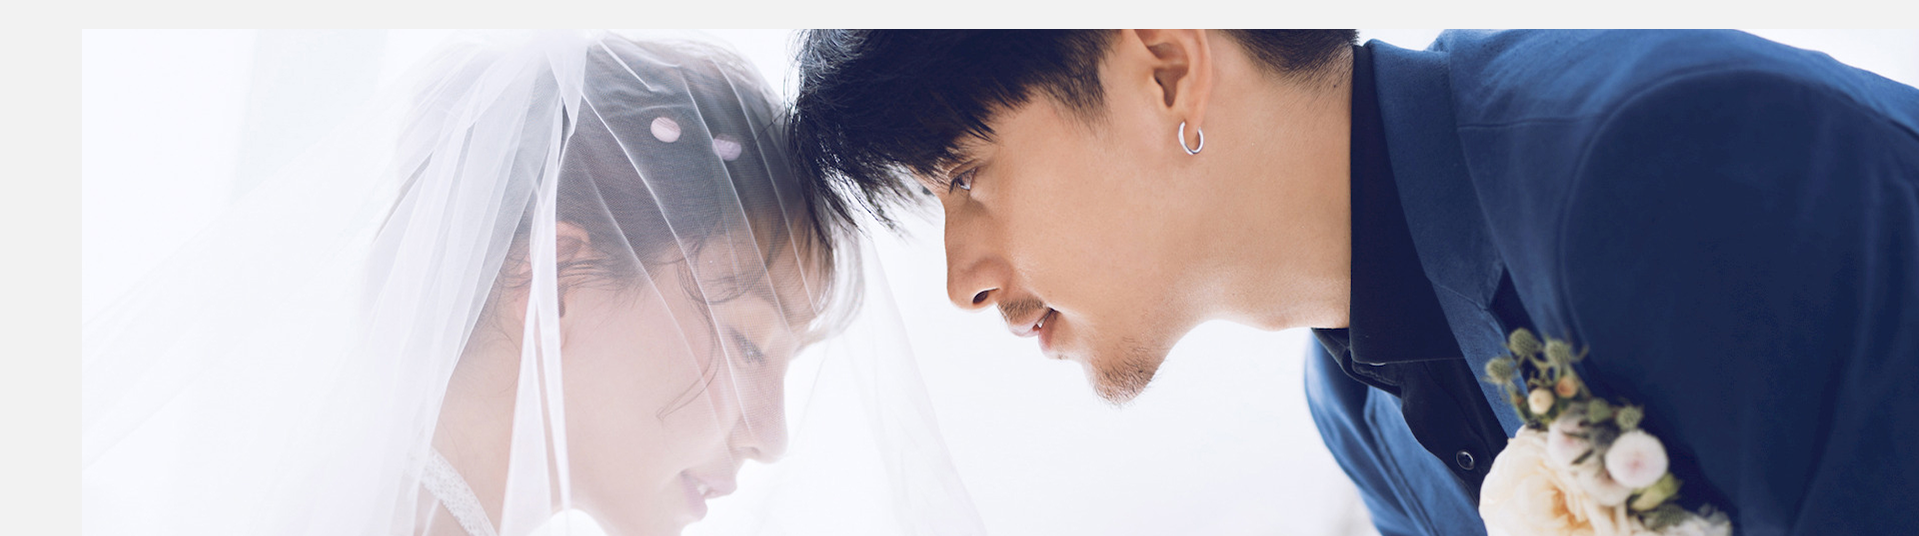
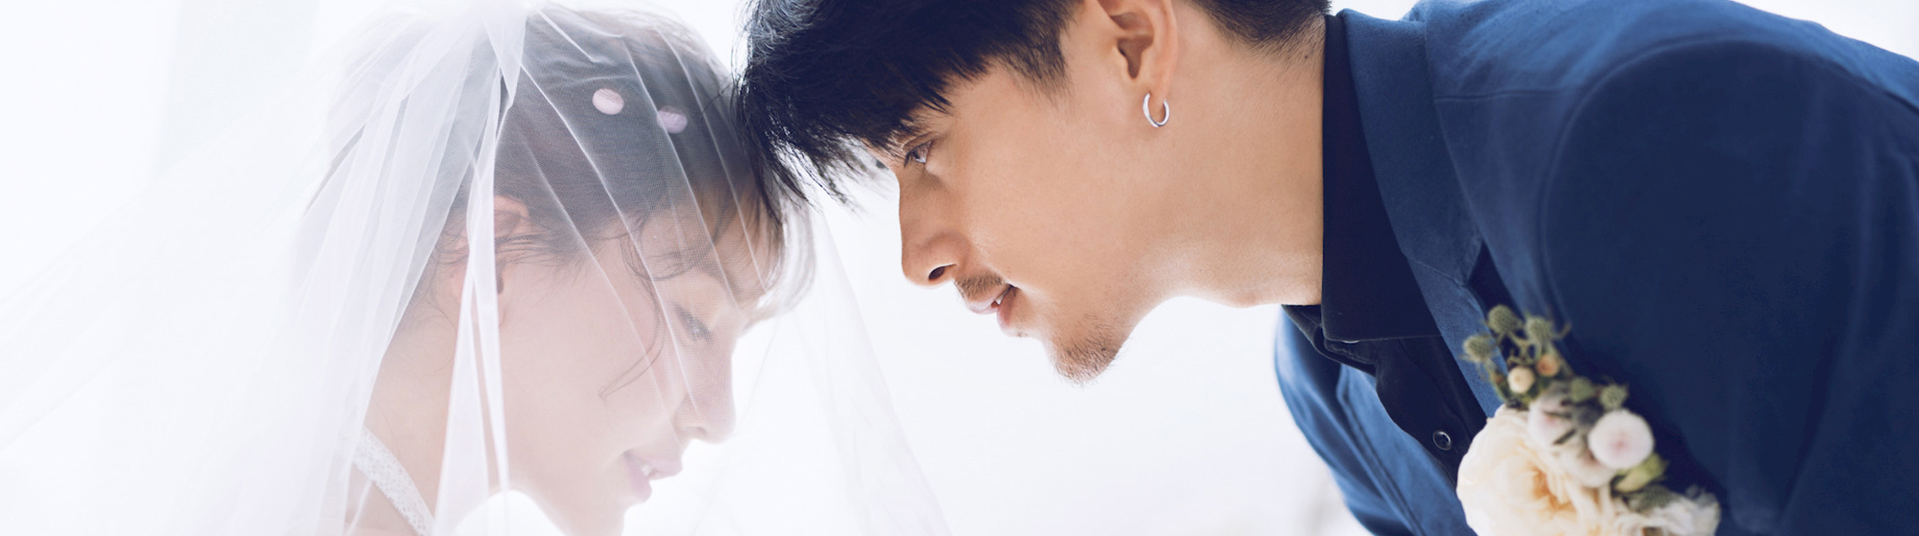
服务协议

Changed region(s): [[0.1537, 0.0, 1.0, 1.0], [0.1537, 0.2687, 0.1845, 0.3284]]

diff --git a/service.html b/service.html
@@ -8,7 +8,6 @@
     user-scalable=0">
     <link rel="stylesheet" href="style/css/bootstrap.min.css"/>
     <link rel="stylesheet" href="style/common.css">
-    <link rel="stylesheet" href="style/index.css"/>
     <script src="js/jquery-3.2.1.min.js" type="text/javascript"></script>
     <script src="js/bootstrap.min.js" type="text/javascript"></script>
     <link rel="stylesheet" href="style/service.css">
@@ -16,12 +15,13 @@
     <title>服务协议</title>
 </head>
 <body class="service_body">
-<div class="col-md-12">
-    <img src="image/inside_page/bg1.png" class="service_bg">
+<div class="col-md-12 bg_padding">
+    <img src="image/inside_page/bg1.png" class="service_bg img-fluid">
 </div>
 <div class="container service_container">
     <div id="header"></div>
     <div class="service_content">
+        <img src="image/inside_page/top_right.png" class="img-fluid top_right_img">
         <div class="row service_part">
             <div class="col-md-3 item-6">
                 <div class="section_title">服务协议</div>
@@ -109,12 +109,58 @@
                     <p>8) 以任何方式干扰本站服务的。</p>
                 </li>
                 <li>
-                    <p class="item_title"></p>
-                    <p></p>
+                    <p class="item_title">9、隐私权</p>
+                    <p>1) 本注册条款所涉及的隐私是指： 在会员注册本站帐户时，使用其它本站产品或服务，访问本站网页, 或参加任何形式的会员活动时，本站收集的会员的个人身份识别资料，包括会员的姓名、昵称、电邮地址、出生日期、性别、职业、所在行业、个人收入等。本站自动接收并记录会员的浏览器和服务器日志上的信息，包括但不限于会员的IP 地址、在线、无线信息、信件等资料。</p>
+                    <p>2) 本站会收集上述信息将用于：提供网站服务、改进网页内容，满足会员对某种产品、活动的需求、通知您最新产品、活动信息、或根据法律法规要求。</p>
+                    <p>3) 会员的本站帐号具有密码保护功能，以确保会员的隐私和信息安全。在某些情况下，本站使用通行标准的保密系统，确保资料传送的安全性。</p>
+                    <p>4) 本站可能利用工具，为合作伙伴的网站进行数据搜集工作，有关数据也会作统计用途。网站会将所记录的本站会员数据整合起来，以综合数据形式供合作伙伴参考。综合数据会包括人数统计和使用情况等资料，但不会包含任何可以识别个人身份的数据。当本站要替合作伙伴进行数据搜集时，本站将和合作伙伴同时在网站或者是网页上告知会员。</p>
+                    <p>5) 本站不会将会员的个人识别信息出租或出售给任何人，以下情况除外： 会员明确同意让第三方共享资料； 只有透露会员的个人资料，才能提供会员所要求的产品和服务； 为保护本站、会员及社会公众的权利、财产或人身安全； 根据法律法规的规定，向司法机关提供； 受到黑客攻击导致会员信息泄漏的； 被搜索引擎在搜索结果中显示； 其他本站认为有必要的情况。</p>
+
                 </li>
                 <li>
-                    <p class="item_title"></p>
-                    <p></p>
+                    <p class="item_title">10、关于会员在本站的上传或张贴的内容</p>
+                    <p>1) 会员在本站上传或张贴的内容（包括照片、文字等），视为会员授权本站免费、非独家的使用权，本站有权为展示、传播及推广前述张贴内容的目的，对上述内容进行复制、修改、出版等。本使用权持续至会员将上述内容在本站上删除止。本站合作伙伴使用或在现场活动中使用，本站将事先征得会员的同意，但在本站内使用不受此限。</p>
+                    <p>2) 因会员进行上述上传或张贴，而导致任何第三方提出侵权或索赔要求的，会员承担全部责任。</p>
+                    <p>3) 任何第三方对于会员在本站的公开使用区域张贴的内容进行复制、修改、编辑、传播等行为的，该行为产生的法律后果和责任均由行为人承担，与本站无关。</p>
+                </li>
+                <li>
+                    <p class="item_title">11、信息储存和限制</p>
+                    <p>本站有权制订一般措施及限制，包含但不限于网站服务将保留的电子邮件讯息、所张贴内容或其他上载内容的最长期间、每个帐号可收发电子邮件讯息的最大数量及可收发的单个消息的大小。通过网站服务存储或传送之任何信息、通讯资料和其他内容，如被删除或未予储存，本站不承担任何责任。会员同意，长时间未使用的帐号，本站有权关闭。同时本站有权自行决定并无论通知与否，随时变更这些一般措施及限制。</p>
+                </li>
+                <li>
+                    <p class="item_title">12、结束服务</p>
+                    <p>1) 如会员连续2年未登录本站，该会员的帐号将被自动关闭，本站同时终止提供与该帐号相对应的全部或部分服务，包括会员购买VIP服务等，并不承担退费或其他责任。</p>
+                    <p>2) 会员若反对任何注册条款的内容或对之后注册条款修改有异议，或对本站服务不满，会员只有以下的追索权： 不再使用本站服务； 结束会员使用本站服务的资格； 通告本站停止该会员的服务。结束会员服务后，会员使用本站服务的权利马上中止。从那时起，本站不再对会员承担任何义务。</p>
+                </li>
+                <li>
+                    <p class="item_title">13、禁止商业行为</p>
+                    <p>会员同意不对本站提供的服务或服务的任何部分，进行复制、拷贝、出售、转售或用于任何其他商业目的。</p>
+                </li>
+                <li>
+                    <p class="item_title">14、赔偿</p>
+                    <p>1) 由于会员通过本站提供的服务提供、张贴或传送内容、违反本服务条款、或侵害他人任何权利因而衍生或导致任何第三人提出任何索赔或请求，会员同意赔偿本站或其他合作伙伴的损失，包括合理的律师费和调查费用等。</p>
+                    <p>2) 会员在投诉其他会员有违法行为或违反本注册条款情形时，投诉者应承担投诉所产生的全部法律责任。如侵犯他人的合法权益，投诉人应独立承担全部法律责任。如给本站造成损失的，投诉人应承担相应的赔偿责任。</p>
+                </li>
+                <li>
+                    <p class="item_title">15、会员注册条款的变更和修改</p>
+                    <p>本站有权随时对本注册条款进行变更和修改。一旦发生注册条款的变动， 本站将在页面上提示修改的内容，或将最新版本的会员注册条款以邮件的形式发送给会员。会员如果不同意会员注册条款的修改，可以主动取消会员资格，如对部分服务支付了额外的费用，可以申请将费用全额或部分退回。如果会员继续使用会员帐号，则视为会员已经接受会员注册条款的修改。</p>
+                </li>
+                <li>
+                    <p class="item_title">16、不可抗力</p>
+                    <p>1) “不可抗力”是指本站不能合理控制、不可预见或即使预见亦无法避免的事件，该事件妨碍、影响或延误本站根据本注册条款履行其全部或部分义务。该事件包括但不限于政府行为、自然灾害、战争、黑客袭击、电脑病毒、网络故障等。不可抗力可能导致本站暂时发生瘫痪、访问速度缓慢、存储数据丢失、会员个人信息泄漏等不利后果。</p>
+                    <p>2) 遭受不可抗力事件时，本站可暂行中止履行本注册条款项下的义务直至不可抗力事件的影响消除为止，并且无需为此而承担违约责任；但应尽最大努力克服该事件，减轻其负面影响。</p>
+                </li>
+                <li>
+                    <p class="item_title">17、通知</p>
+                    <p>本站向其会员发出的通知，将采用短信的形式。注册条款的修改或其他事项变更时，本站将会以上述形式进行通知。</p>
+                </li>
+                <li>
+                    <p class="item_title">18、法律的适用和管辖</p>
+                    <p>本注册条款的生效、履行、解释及争议的解决均适用中华人民共和国的现行法律，所发生的争议应提交北京仲裁委员会，其仲裁裁决是终局的。本注册条款因与中华人民共和国现行法律相抵触而导致部分条款无效的，不影响其他条款的效力。</p>
+                </li>
+                <li>
+                    <p class="item_title">19、最终解释权和修改权</p>
+                    <p>本注册条款的最终解释权和修改权归本站所有。</p>
                 </li>
             </ul>
         </div>

diff --git a/style/service.css b/style/service.css
@@ -1,8 +1,10 @@
 .service_body {
   background-color: #f6f6f6; }
 
-.service_bg {
-  width: 100%; }
+.bg_padding {
+  padding: 0; }
+  .bg_padding .service_bg {
+    width: 100%; }
 
 .service_container {
   position: relative; }
@@ -28,12 +30,34 @@
       margin-bottom: 1rem; }
     .service_container .service_content .service_agreement_page p {
       color: #8a8989;
-      margin-bottom: .2rem; }
+      margin-bottom: .4rem;
+      font-size: .6rem; }
     .service_container .service_content .service_agreement_page .title {
       color: #000000;
       font-size: .8rem;
-      padding-left: 40px; }
+      padding-left: 20px; }
+    .service_container .service_content .service_agreement_page ul {
+      padding-left: 20px; }
     .service_container .service_content .service_agreement_page .item_title {
-      color: #000000; }
+      color: #000000;
+      font-size: .7rem; }
+    .service_container .service_content .top_right_img {
+      position: absolute;
+      top: 30px;
+      right: 0;
+      width: 6rem;
+      height: 5rem; }
+  .service_container .footer {
+    margin-top: -9rem; }
+
+@media screen and (max-width: 768px) {
+  .service_bg {
+    height: 11rem; }
+
+  .footer {
+    margin-top: -2rem !important; }
+
+  .service_container .service_content {
+    top: -3rem; } }
 
 /*# sourceMappingURL=service.css.map */

diff --git a/style/service.scss b/style/service.scss
@@ -4,9 +4,13 @@
   background-color: #f6f6f6;
 }
 
-.service_bg {
-  width: 100%;
+.bg_padding{
+  padding: 0;
+  & .service_bg {
+    width: 100%;
+  }
 }
+
 
 .service_container {
   position: relative;
@@ -35,21 +39,50 @@
       }
     }
     & .service_agreement_page {
-      & li{
+      & li {
         margin-bottom: 1rem;
       }
-      & p{
+      & p {
         color: #8a8989;
-        margin-bottom: .2rem;
+        margin-bottom: .4rem;
+        font-size: .6rem;
       }
       & .title {
         color: #000000;
         font-size: .8rem;
-        padding-left: 40px;
+        padding-left: 20px;
       }
-      & .item_title{
+      & ul{
+        padding-left: 20px;
+      }
+      & .item_title {
         color: #000000;
+        font-size: .7rem;
       }
+    }
+    & .top_right_img {
+      position: absolute;
+      top: 30px;
+      right: 0;
+      width: 6rem;
+      height: 5rem;
+    }
+  }
+  & .footer {
+    margin-top: -9rem;
+  }
+}
+
+@media screen and (max-width: 768px) {
+  .service_bg{
+    height: 11rem;
+  }
+  .footer{
+    margin-top: -2rem !important;
+  }
+  .service_container {
+    & .service_content {
+      top: -3rem;
     }
   }
 }

diff --git a/style/about.css b/style/about.css
@@ -31,6 +31,8 @@
         .about_body .about_container .about_page .last_item .large_text {
           font-size: 1.6rem;
           font-weight: bold; }
+    .about_body .about_container .footer {
+      margin-top: -6rem; }
 
 @media screen and (max-width: 768px) {
   .large_text {

diff --git a/style/common.css b/style/common.css
@@ -98,6 +98,8 @@ ul li {
   margin: 5rem auto 3rem;
   color: black;
   font-size: .8rem; }
+  .footer .container {
+    padding: 0; }
   .footer .footer_nav {
     margin: 0 auto; }
     .footer .footer_nav ul {

diff --git a/style/_footer.scss b/style/_footer.scss
@@ -4,6 +4,9 @@
   margin: 5rem auto 3rem;
   color: black;
   font-size: .8rem;
+  & .container{
+    padding: 0;
+  }
   & .footer_nav {
     margin: 0 auto;
     & ul {

diff --git a/about.html b/about.html
@@ -55,9 +55,8 @@
 
             </div>
         </div>
-        <div id="footer"></div>
     </div>
-
+    <div id="footer"></div>
 </div>
 
 <script>

diff --git a/style/about.scss b/style/about.scss
@@ -46,6 +46,9 @@
         }
       }
     }
+    & .footer{
+      margin-top: -6rem;
+    }
   }
 }
 
